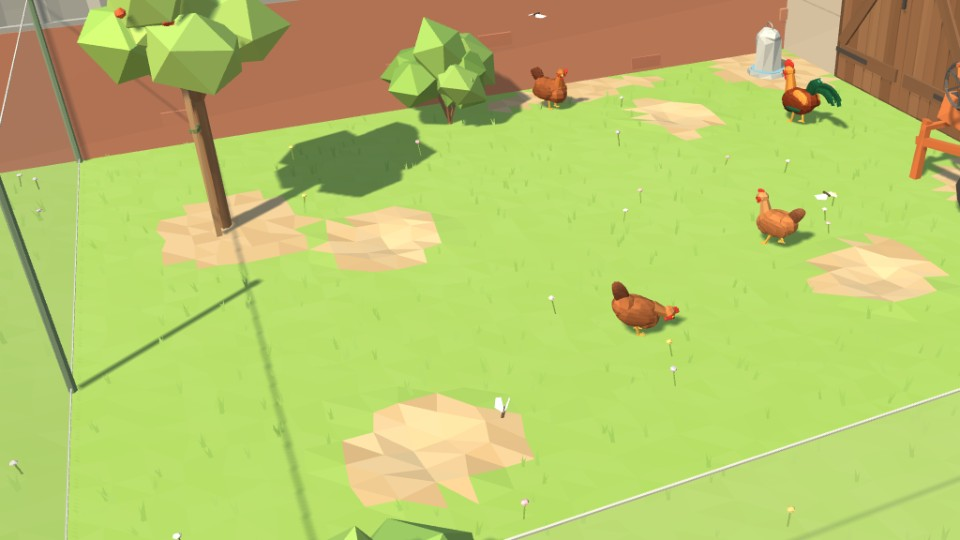
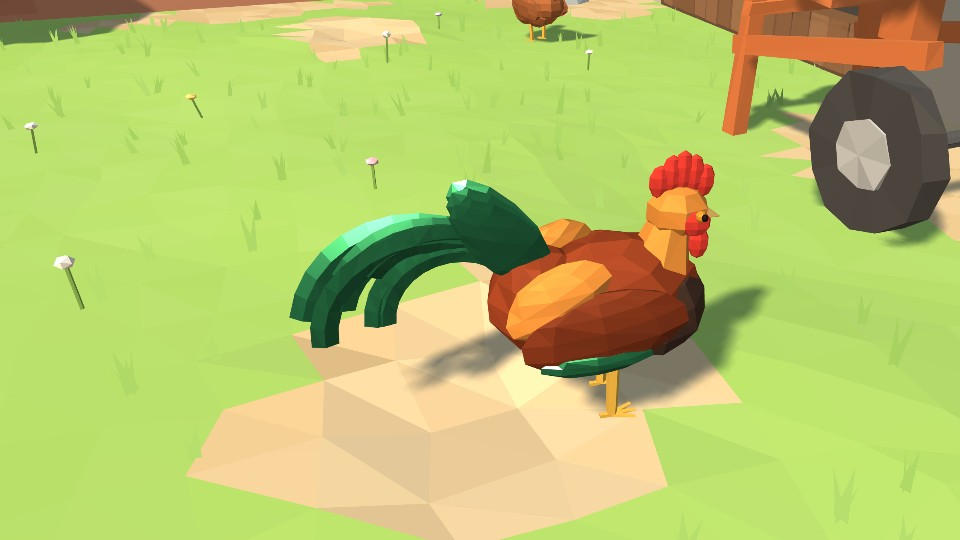
New PC-24 model; chicken run objects no longer stay faded; close-up thumbnails for cats and chickens, new flight thumbnail

diff --git a/playground/flight.html b/playground/flight.html
@@ -396,7 +396,7 @@ ring.add(ringGlow); ring.visible = false; scene.add(ring);
 //  aircraft
 // ===================================================================
 const AC = {
-  pc24: { name: "PC-24", kind: "plane", blurb: "The only business jet in the world that can land on unpaved runways.", cruise: 110, stall: 55, T: 4.2, pitch: .55, roll: 1.6, yaw: .3, fuelSec: 260, brake: 6, len: 17, gearH: 1.95, zMain: 1.5 },
+  pc24: { name: "PC-24", kind: "plane", blurb: "The only business jet in the world that can land on unpaved runways.", cruise: 110, stall: 55, T: 4.2, pitch: .55, roll: 1.6, yaw: .3, fuelSec: 260, brake: 6, len: 17, gearH: 1.95, zMain: 0 },
   pc12: { name: "PC-12", kind: "plane", blurb: "Single-engine turboprop. Steady, roomy and forgiving.", cruise: 80, stall: 36, T: 3.5, pitch: .6, roll: 1.5, yaw: .35, fuelSec: 360, brake: 5, len: 14.4, gearH: 1.83, zMain: -0.1 },
   pc21: { name: "PC-21", kind: "plane", blurb: "Turboprop trainer that flies like a fighter jet. Agile, rolls fast.", cruise: 105, stall: 42, T: 5.5, pitch: .95, roll: 3.4, yaw: .45, fuelSec: 210, brake: 6, len: 11.2, gearH: 1.5, zMain: 0.4 },
   pc9:  { name: "PC-9", kind: "plane", blurb: "Turboprop trainer, the PC-21's predecessor. Light, quick and honest.", cruise: 92, stall: 38, T: 4.6, pitch: .8, roll: 2.5, yaw: .4, fuelSec: 240, brake: 5.5, len: 10.2, gearH: 1.41, zMain: 0.25 },
@@ -431,10 +431,10 @@ function sideLine(g, mat, rAt, pts, h, inset = 0.03) {
 // paint a flat convex polygon onto a round fuselage, mirrored on both sides. poly: [z, t] points, t = angle round the
 // fuselage from the top (0) to the bottom (PI). rAt(z) = fuselage radius, yAt(z) = height of its axis (optional).
 // Triangles are subdivided and lifted a little so the paint sits just outside the faceted fuselage.
-function hullPatch(g, mat, rAt, polys, off = 0.02, yAt = null, N = 6) {
+function hullPatch(g, mat, rAt, polys, off = 0.02, yAt = null, N = 6, sides = [-1, 1]) {
   const pos = [], yc = (z) => (yAt ? yAt(z) : 0);
   if (!Array.isArray(polys[0][0])) polys = [polys];
-  for (const poly of polys) for (const s of [-1, 1]) {
+  for (const poly of polys) for (const s of sides) {
     const P = (q) => { const rr = rAt(q[0]), rx = (rr.length ? rr[0] : rr) + off, ry = (rr.length ? rr[1] : rr) + off; return new THREE.Vector3(s * rx * Math.sin(q[1]), yc(q[0]) + ry * Math.cos(q[1]), q[0]); };
     const tri = (p, q, r) => {
       const a = P(p); let b = P(q), c = P(r);
@@ -540,70 +540,85 @@ function buildModel(id) {
     const r = mk(g, new THREE.SphereGeometry(0.2, 6, 6), MB(0xff3030), -x, y, z), gr = mk(g, new THREE.SphereGeometry(0.2, 6, 6), MB(0x30ff60), x, y, z);
     ud.lights.push(r, gr);
   };
-  if (id === "pc24") {   // PC-24, blue prototype HB-VSA: blue, white swoosh with navy pinstripes, grey wings, white engines. T-tail.
-    // nose and cockpit from the side photo: [distance from the tip, top line, bottom line]. The crown runs in one smooth curve
-    // from the cabin roof over the windshield into a low, rounded radome; the lower line is almost straight. A smooth curve
-    // through these points is sampled finely, so there are no kinks between stations.
-    const key = [[0, -0.44, -0.44], [0.05, -0.36, -0.52], [0.15, -0.3, -0.57], [0.3, -0.24, -0.61], [0.71, -0.115, -0.66], [1.29, 0.095, -0.7],
-      [2.09, 0.37, -0.76], [2.71, 0.52, -0.8], [3.57, 0.68, -0.87], [4.43, 0.81, -0.93], [5.29, 0.93, -0.96], [6.0, 0.97, -0.97]];
-    const herm = (k) => (d) => {   // cubic Hermite through the key points (finite-difference tangents)
-      let i = 0; while (i < key.length - 2 && d > key[i + 1][0]) i++;
-      const p0 = key[i], p1 = key[i + 1], h = p1[0] - p0[0], t = (d - p0[0]) / h;
-      const m = (j) => (j <= 0 ? (key[1][k] - key[0][k]) / (key[1][0] - key[0][0]) : j >= key.length - 1 ? (key[j][k] - key[j - 1][k]) / (key[j][0] - key[j - 1][0])
-        : (key[j + 1][k] - key[j - 1][k]) / (key[j + 1][0] - key[j - 1][0]));
-      const t2 = t * t, t3 = t2 * t;
-      return (2 * t3 - 3 * t2 + 1) * p0[k] + (t3 - 2 * t2 + t) * h * m(i) + (-2 * t3 + 3 * t2) * p1[k] + (t3 - t2) * h * m(i + 1);
-    };
-    const top = herm(1), bot = herm(2), noseSt = [[-8.55, 0, -0.44]];
-    for (const d of [0.05, 0.15, 0.3, 0.5, 0.71, 1.0, 1.29, 1.7, 2.09, 2.4, 2.71, 3.1, 3.57, 4.0, 4.43, 4.85, 5.29, 5.65, 6.0]) {
-      const tp = top(d), bt = bot(d), ry = (tp - bt) / 2;   // a little wider than deep toward the tip: blunter in plan view
-      noseSt.push([-8.55 + d, ry * (1 + 0.3 * Math.max(0, 1 - d / 4.5)), (tp + bt) / 2, ry]);
-    }
-    // rear fuselage: the top stays nearly level, the underside sweeps up, gently and then more steeply (the double angle),
-    // closing just behind the fin; the APU tail cone sticks out aft on its own with the exhaust at its tip
-    const F = fuselage(g, MAT.pcBlue, [...noseSt, [2.0, 0.97, 0], [3.2, 0.9, 0.08], [4.4, 0.77, 0.2], [5.5, 0.62, 0.31], [6.3, 0.5, 0.38],
-      [6.9, 0.38, 0.46], [7.25, 0.28, 0.52], [7.32, 0, 0.55]]);
+  if (id === "pc24") {   // PC-24, blue prototype HB-VSA. Proportions traced from reference views; T-tail, cargo door on the left.
+    // Proportions traced from side, plan and rear views of a reference model, at 16.8 m length and 17.0 m span.
+    // Origin on the cabin axis, about where the main gear sits; nose toward -z, y up.
+    // Nose and cockpit: [z, top, bottom, half-width]. The belly line runs almost straight to a low, pointed tip;
+    // the top line falls in one long curve from the full cockpit crown down to the tip.
+    const nose = [[-8.65, -0.74, -0.74, 0], [-8.55, -0.62, -0.88, 0.12], [-8.4, -0.5, -0.92, 0.2], [-8.25, -0.425, -0.935, 0.26],
+      [-8.0, -0.295, -0.965, 0.41], [-7.75, -0.175, -0.98, 0.5], [-7.5, -0.075, -0.985, 0.59], [-7.25, 0.025, -0.985, 0.655],
+      [-7.0, 0.135, -0.98, 0.71], [-6.75, 0.275, -0.975, 0.775], [-6.5, 0.425, -0.965, 0.83], [-6.25, 0.555, -0.96, 0.85],
+      [-6.0, 0.685, -0.955, 0.87], [-5.75, 0.775, -0.945, 0.9], [-5.5, 0.835, -0.94, 0.915], [-5.25, 0.865, -0.935, 0.925],
+      [-5.0, 0.88, -0.94, 0.93], [-4.5, 0.895, -0.945, 0.93], [-3.5, 0.925, -0.965, 0.93]];
+    // cabin, then the rear fuselage: the top stays high while the belly sweeps up, narrowing in plan to a deep, slim tail
+    // that closes smoothly to a small point under the fin's trailing edge
+    const rear = [[-1.0, 0.985, -0.985, 0.93], [0.5, 1.02, -0.985, 0.93], [1.5, 1.05, -0.935, 0.93], [2.0, 1.04, -0.8, 0.87],
+      [2.5, 1.03, -0.63, 0.8], [3.0, 1.02, -0.47, 0.74], [3.5, 1.01, -0.32, 0.68], [4.0, 1.0, -0.21, 0.63], [4.6, 0.99, -0.06, 0.56],
+      [5.2, 0.97, 0.11, 0.37], [5.7, 0.96, 0.28, 0.3], [6.1, 0.95, 0.43, 0.23], [6.4, 0.93, 0.54, 0.17], [6.65, 0.9, 0.64, 0.11],
+      [6.85, 0.87, 0.73, 0.06], [6.97, 0.83, 0.8, 0.02], [7.0, 0.82, 0.82, 0]];
+    const st = [...nose, ...rear].map(([z, t, b, w]) => [z, w, (t + b) / 2, (t - b) / 2]);
+    const F = fuselage(g, MAT.pcBlue, st, 14);
     const R = F.rAt, Yc = F.yAt;
-    fuselage(g, MAT.white, [[7.1, 0.21, 0.58], [7.45, 0.16, 0.6], [7.75, 0.07, 0.62], [7.76, 0, 0.62]], 10);   // APU tail cone
-    mk(g, new THREE.CircleGeometry(0.06, 8), MAT.dark, 0, 0.62, 7.755);                                     // APU exhaust
-    // white swoosh: a thin sliver behind the nose wheel, sweeping back and up, covering the lower rear fuselage
-    hullPatch(g, MAT.white, R, [[[-6.3, 2.35], [-3.5, 2.0], [-3.5, 2.6], [-6.0, 2.55]], [[-3.5, 2.0], [0.5, 1.78], [0.5, 2.75], [-3.5, 2.6]],
-      [[0.5, 1.78], [2.6, 1.45], [2.6, Math.PI], [0.5, 2.75]], [[2.6, 1.45], [4.6, 0.85], [4.6, Math.PI], [2.6, Math.PI]],
-      [[4.6, 0.85], [6.6, 0.45], [6.6, Math.PI], [4.6, Math.PI]], [[6.6, 0.45], [7.28, 0.4], [7.28, Math.PI], [6.6, Math.PI]]], 0.02, Yc);
-    hullStrip(g, MAT.navy, R, [[-6.3, 2.33], [-3.5, 1.98], [0.5, 1.76], [2.6, 1.43], [4.6, 0.83], [6.6, 0.43], [7.25, 0.4]], 0.035, 0.03, Yc);
-    hullStrip(g, MAT.navy, R, [[-4.5, 2.42], [-1, 2.3], [1.5, 2.1], [3.2, 1.75], [4.8, 1.3], [6.5, 1.05]], 0.025, 0.03, Yc);
-    // wrap-around windshield (the panes meet over the crown, raked front edge), cockpit side windows a little higher than
-    // the cabin windows, then three cabin windows, the door window and three more
-    hullPatch(g, MAT.glass, R, [[[-6.35, 0], [-5.1, 0], [-4.95, 1.0], [-5.95, 1.08]], [[-4.9, 0.5], [-3.9, 0.52], [-3.95, 1.04], [-4.88, 1.02]],
-      ...[-2.65, -1.9, -1.15, 0.45, 1.2, 1.95].map((z) => [[z - 0.13, 1.27], [z + 0.13, 1.27], [z + 0.13, 1.62], [z - 0.13, 1.62]]),
-      [[-0.54, 1.22], [-0.16, 1.22], [-0.16, 1.68], [-0.54, 1.68]]], 0.03, Yc, 3);
-    // wing-to-body fairing: a long, shallow, wide bulge under the centre fuselage that the wing roots run into
-    fuselage(g, MAT.pcBlue, [[-2.8, 0.7, -0.45, 0.45], [-1.8, 1.0, -0.52, 0.65], [-0.8, 1.18, -0.55, 0.74], [1.4, 1.18, -0.55, 0.74],
-      [2.6, 1.02, -0.5, 0.62], [3.6, 0.75, -0.42, 0.42], [4.3, 0.4, -0.35, 0.2]], 14);
-    // wing: swept outer panel, a more swept glove at the root, almost straight trailing edge, slim tips, no winglets
-    const wing = [[0, -1.6], [1.0, -1.55], [2.3, -0.5], [8.5, 1.55], [8.5, 2.4], [1.0, 1.45], [0, 1.45]];
+    const tAt = (z, y) => { const rr = R(z), ry = rr.length ? rr[1] : rr; return Math.acos(clamp((y - Yc(z)) / ry, -1, 1)); };   // side height -> paint angle
+
+    // white swoosh: a thin sliver behind the nose wheel, sweeping back and up under the windows, covering the lower rear fuselage
+    hullPatch(g, MAT.white, R, [[[-6.4, 2.3], [-3.5, 2.0], [-3.5, 2.6], [-6.1, 2.5]], [[-3.5, 2.0], [0.5, 1.8], [0.5, 2.75], [-3.5, 2.6]],
+      [[0.5, 1.8], [2.6, 1.45], [2.6, Math.PI], [0.5, 2.75]], [[2.6, 1.45], [4.6, 0.9], [4.6, Math.PI], [2.6, Math.PI]],
+      [[4.6, 0.9], [6.95, 0.6], [6.95, Math.PI], [4.6, Math.PI]]], 0.02, Yc);
+    hullStrip(g, MAT.navy, R, [[-6.4, 2.28], [-3.5, 1.98], [0.5, 1.78], [2.6, 1.43], [4.6, 0.88], [6.3, 0.62]], 0.035, 0.03, Yc);
+    hullStrip(g, MAT.navy, R, [[-4.6, 2.4], [-1, 2.3], [1.5, 2.12], [3.2, 1.78], [4.8, 1.35], [6.2, 1.1]], 0.025, 0.03, Yc);
+
+    // cockpit glass, one dark wrap-around band with thin body-colour frames: two big windshield panes split by a thin centre
+    // post, a strip of painted roof above them, the lower edge low on the nose slope; behind them a front and a rear side
+    // window split by slim posts, the top edge following the crown. Then three cabin windows, the door window and two more,
+    // on a window line just above the cabin axis.
+    const win = (z, w, y0, y1) => [[z - w, tAt(z - w, y1)], [z + w, tAt(z + w, y1)], [z + w, tAt(z + w, y0)], [z - w, tAt(z - w, y0)]];
+    const side = (pts) => pts.map(([z, y]) => [z, tAt(z, y)]);   // outline given as side-view heights
+    hullPatch(g, MAT.glass, R, [
+      [[-6.85, 0.035], [-6.27, 0.035], [-6.05, tAt(-6.05, 0.595)], [-6.41, tAt(-6.41, 0.14)], [-6.87, tAt(-6.87, 0.13)]],   // windshield pane
+      side([[-6.01, 0.598], [-5.6, 0.575], [-5.84, 0.17], [-6.37, 0.144]]),                                               // front side window
+      side([[-5.56, 0.572], [-5.19, 0.54], [-5.19, 0.2], [-5.8, 0.173]]),                                                 // rear side window
+      ...[-3.32, -2.58, -1.85, -1.01, -0.35, 0.21].map((z) => win(z, 0.15, 0.2, 0.6))], 0.03, Yc, 3);
+
+    // the large cargo door on the left side, behind the last cabin window and ahead of the engine: a thin navy seam and handle
+    const seam = (z0, z1, y0, y1) => side([[z0, y1], [z1, y1], [z1, y0], [z0, y0]]);
+    hullPatch(g, MAT.navy, R, [seam(0.58, 0.615, -0.32, 0.78), seam(1.865, 1.9, -0.32, 0.78), seam(0.58, 1.9, 0.745, 0.78), seam(0.58, 1.9, -0.32, -0.285),
+      seam(1.2, 1.32, -0.24, -0.04)], 0.036, Yc, 2, [-1]);
+    // wing-to-body fairing: long, shallow and wide under the centre fuselage, the wing roots run into it
+    fuselage(g, MAT.pcBlue, [[-3.6, 0.7, -0.6, 0.45], [-3.0, 0.95, -0.6, 0.545], [-2.5, 1.05, -0.6, 0.625], [-2.0, 1.12, -0.6, 0.725],
+      [-1.5, 1.15, -0.6, 0.775], [-1.0, 1.15, -0.6, 0.755], [0.0, 1.14, -0.6, 0.635], [0.5, 1.12, -0.6, 0.565], [1.0, 1.08, -0.6, 0.505],
+      [1.6, 0.95, -0.55, 0.35], [2.1, 0.6, -0.5, 0.2], [2.5, 0.3, -0.45, 0.1]], 14);
+
+    // wing: low on the fuselage, a glove at the root, a cranked leading edge (about 18 degrees inboard, 14 outboard),
+    // a straight trailing edge (the body fairing carries the root aft), slim tips; about 4 degrees of dihedral
+    const wing = [[0, -2.2], [1.0, -2.1], [1.85, -1.82], [4.3, -1.02], [8.45, 0.02], [8.45, 0.85], [1.2, 0.72], [0, 0.75]];
     for (const s of [-1, 1]) {
-      wingHalf(g, MAT.grey, wing, s, -0.62, 0.05, 0.22);
-      // engines: long, slightly barrel-shaped nacelles high on the rear fuselage, a little toed out, round intake lip, short exhaust cone
-      const nac = new THREE.Group(); nac.position.set(s * 1.12, 0.72, 0); nac.rotation.y = -s * 0.04; g.add(nac);
-      fuselage(nac, MAT.white, [[3.4, 0.37, 0], [3.52, 0.43, 0], [3.9, 0.46, 0], [4.9, 0.46, 0], [5.7, 0.39, 0], [6.0, 0.32, 0], [6.01, 0, 0]], 12);
-      fuselage(nac, MAT.metal, [[5.9, 0.2, 0], [6.3, 0, 0]], 8);
-      mk(nac, new THREE.TorusGeometry(0.4, 0.045, 6, 14), MAT.silver, 0, 0, 3.4);
-      mk(nac, new THREE.CircleGeometry(0.36, 12), MAT.glass, 0, 0, 3.46, 0, Math.PI, 0);
-      plate(g, MAT.white, mirrorX([[0.3, 3.9], [0.85, 4.25], [0.85, 5.4], [0.3, 5.95]], s), 0.2).position.y = 0.68;   // pylon fairing
+      wingHalf(g, MAT.grey, wing, s, -0.98, 0.072, 0.16);
+      // engines: long, slightly barrel-shaped nacelles high on the rear fuselage on short pylons, a little toed out
+      const nac = new THREE.Group(); nac.position.set(s * 1.45, 0.61, 0); nac.rotation.y = -s * 0.03; g.add(nac);
+      fuselage(nac, MAT.white, [[2.02, 0.41, 0], [2.12, 0.46, 0], [2.5, 0.49, 0], [3.7, 0.49, 0], [4.35, 0.44, 0], [4.6, 0.37, 0], [4.61, 0, 0]], 12);
+      fuselage(nac, MAT.metal, [[4.5, 0.22, 0], [4.78, 0, 0]], 8);
+      mk(nac, new THREE.TorusGeometry(0.43, 0.045, 6, 14), MAT.silver, 0, 0, 2.02);
+      mk(nac, new THREE.CircleGeometry(0.39, 12), MAT.glass, 0, 0, 2.08, 0, Math.PI, 0);
+      plate(g, MAT.white, mirrorX([[0.4, 2.5], [1.05, 2.7], [1.05, 4.1], [0.4, 4.4]], s), 0.22).position.y = 0.6;   // pylon
     }
-    // fin: about 45 degrees of leading-edge sweep, a short dorsal fillet, the rudder trailing edge leaning back and
-    // coming down onto the top of the APU cone
-    const fin = plate(g, MAT.pcBlue, [[3.6, 0.92], [4.4, 1.0], [6.6, 3.15], [7.85, 3.15], [7.25, 0.78], [5.5, 0.6]], 0.2, "zy");
-    finDecal(fin, MAT.white, [[4.5, 1.05], [7.23, 1.05], [7.36, 1.5], [4.95, 1.5]]);
-    finDecal(fin, MAT.navy, [[4.95, 1.5], [7.36, 1.5], [7.38, 1.6], [5.05, 1.6]], 0.008);
-    rudderLine(fin, MAT.blueDark, [6.95, 0.9], [7.5, 3.1]);
-    // T-tail: swept tailplane sitting on an acorn fairing at the fin tip
-    fuselage(g, MAT.pcBlue, [[6.35, 0, 3.18], [6.6, 0.14, 3.18], [7.2, 0.2, 3.18], [8.0, 0.17, 3.18], [8.45, 0.06, 3.18], [8.5, 0, 3.18]], 10);
-    plate(g, MAT.grey, [[0, 6.6], [3.4, 8.0], [3.4, 8.45], [0, 8.0], [-3.4, 8.45], [-3.4, 8.0]], 0.12).position.y = 3.18;
-    plate(g, MAT.white, [[5.5, -0.2], [7.0, 0.15], [6.85, -0.12], [6.2, -0.38]], 0.1, "zy");   // ventral fin
-    nav(8.5, -0.2, 2.0);
-    gearLeg(gear, 1.4, -0.7, 1.0, 0.9, 0.35); gearLeg(gear, -1.4, -0.7, 1.0, 0.9, 0.35); gearLeg(gear, 0, -0.75, -6.6, 0.9, 0.3);
+    // APU: a long dorsal fairing on top of the rear fuselage between the engines, rising into the fin's leading edge
+    fuselage(g, MAT.pcBlue, [[1.8, 0, 1.0, 0], [1.95, 0.25, 1.02, 0.22], [2.5, 0.3, 1.08, 0.32], [3.0, 0.3, 1.12, 0.35], [3.5, 0.28, 1.17, 0.37],
+      [4.0, 0.25, 1.2, 0.4], [4.6, 0.2, 1.2, 0.38], [5.2, 0.12, 1.1, 0.28], [5.6, 0, 1.0, 0]], 10);
+    // fin: 45 degrees of leading-edge sweep, a long tip chord carrying the T-tail, trailing edge leaning back over the tail cut
+    const fin = plate(g, MAT.pcBlue, [[3.8, 1.0], [3.8, 1.47], [5.3, 3.15], [7.36, 3.15], [6.3, 0.95], [5.0, 0.8]], 0.2, "zy");
+    const fle = (y) => 3.8 + (y - 1.47) * 1.5 / 1.68, fte = (y) => 6.3 + (y - 0.95) * 1.06 / 2.2;
+    finDecal(fin, MAT.white, [[fle(1.7), 1.7], [fte(1.7), 1.7], [fte(2.0), 2.0], [fle(2.0), 2.0]]);
+    finDecal(fin, MAT.navy, [[fle(2.0), 2.0], [fte(2.0), 2.0], [fte(2.1), 2.1], [fle(2.1), 2.1]], 0.008);
+    rudderLine(fin, MAT.blueDark, [6.0, 1.15], [6.92, 3.1]);
+    // T-tail: the swept tailplane (6.8 m span) on an acorn fairing at the fin tip
+    fuselage(g, MAT.pcBlue, [[5.45, 0, 3.25], [5.7, 0.12, 3.25], [6.2, 0.17, 3.25], [7.3, 0.16, 3.25], [7.85, 0.08, 3.25], [8.0, 0, 3.25]], 10);
+    plate(g, MAT.grey, [[0, 5.65], [3.4, 7.15], [3.4, 8.1], [0, 7.35], [-3.4, 8.1], [-3.4, 7.15]], 0.12).position.y = 3.08;
+    // ventral strake: a long, low keel fairing that grows out of the belly, runs aft nearly level and sweeps up into the tail
+    fuselage(g, MAT.white, [[3.7, 0, -0.22, 0], [4.0, 0.12, -0.16, 0.07], [4.5, 0.16, -0.083, 0.118], [5.0, 0.18, 0.008, 0.168], [5.5, 0.18, 0.103, 0.228],
+      [5.95, 0.16, 0.205, 0.285], [6.2, 0.11, 0.45, 0.14], [6.4, 0.05, 0.6, 0.06], [6.45, 0, 0.62, 0]], 10);
+    nav(8.45, -0.37, 0.45);
+    gearLeg(gear, 1.54, -0.95, 0.0, 0.65, 0.35); gearLeg(gear, -1.54, -0.95, 0.0, 0.65, 0.35); gearLeg(gear, 0, -0.95, -6.94, 0.7, 0.3);
   } else if (id === "pc12") {   // PC-12 NGX: angular panels in dark, mid and light blue, light grey tail, Swiss flag on the fin. T-tail.
     const F = fuselage(g, MAT.blueMid, [[-6.05, 0.3, 0], [-5.8, 0.55, 0], [-5.0, 0.68, 0.02], [-4.0, 0.78, 0.05], [-3.2, 0.86, 0.08], [-2.0, 0.88, 0.08],
       [1.8, 0.88, 0.08], [3.0, 0.8, 0.14], [4.4, 0.62, 0.26], [5.8, 0.42, 0.4], [7.0, 0.25, 0.52], [7.6, 0, 0.56]]);

diff --git a/playground/chickens.html b/playground/chickens.html
@@ -154,13 +154,16 @@ class Bake {
       g.computeBoundingBox(); const sz = g.boundingBox.getSize(_e), sx = _a.setFromMatrixColumn(m, 0).length(), sy = _b.setFromMatrixColumn(m, 1).length(), sz2 = _c.setFromMatrixColumn(m, 2).length();
       amp = Math.min(0.02, Math.min(sz.x * sx, sz.y * sy, sz.z * sz2) * 0.12);
     }
+    const bx = this.boxes ? [Infinity, -Infinity, Infinity, -Infinity, Infinity, -Infinity] : null;
     for (let i = 0; i < p.count; i += 3) {
       _a.fromBufferAttribute(p, i).applyMatrix4(m); _b.fromBufferAttribute(p, i + 1).applyMatrix4(m); _c.fromBufferAttribute(p, i + 2).applyMatrix4(m);
       if (amp > 0.0005) { wobble(_a, amp); wobble(_b, amp); wobble(_c, amp); }
+      if (bx) for (const v of [_a, _b, _c]) { bx[0] = Math.min(bx[0], v.x); bx[1] = Math.max(bx[1], v.x); bx[2] = Math.min(bx[2], v.y); bx[3] = Math.max(bx[3], v.y); bx[4] = Math.min(bx[4], v.z); bx[5] = Math.max(bx[5], v.z); }
       _n.subVectors(_b, _a).cross(_e.subVectors(_c, _a)).normalize();
       const t = 1 + (Math.random() - 0.5) * j;
       for (const v of [_a, _b, _c]) { this.p.push(v.x, v.y, v.z); this.n.push(_n.x, _n.y, _n.z); this.c.push(col.r * t, col.g * t, col.b * t); }
     }
+    if (bx && bx[0] < Infinity) this.boxes.push(bx);
     if (g !== geo) g.dispose();
     if (!keep) geo.dispose();
     return this;
@@ -499,7 +502,7 @@ const MAIN_W = W;
 // see-through instead of pushing the camera about
 const FADES = [];
 let FCUR = null;
-function newFade(name) { const F = { name, solid: new Bake(), extra: [], c: 0, lastC: -1 }; FADES.push(F); return F; }
+function newFade(name) { const F = { name, solid: new Bake(), extra: [], c: 0, lastC: -1, want: 0 }; F.solid.boxes = []; FADES.push(F); return F; }
 function intoF(F) { FCUR = F; W = F ? F.solid : MAIN_W; }
 intoF(newFade("garage"));
 // the long garage: brick base with proud bricks, corrugated sheet above, corrugated gable roof
@@ -1081,23 +1084,34 @@ for (const F of FADES) {
   F.mats = []; F.objs = [];
   if (F.solid.p.length) { const m = F.solid.build(true, true); m.material = FLAT.clone(); F.mats.push(m.material); F.objs.push(m); }
   for (const o of F.extra) o.traverse((q) => { if (q.isMesh) { q.material = q.material.clone(); F.mats.push(q.material); F.objs.push(q); } });
-  const b = new THREE.Box3(); for (const o of F.objs) { o.updateMatrixWorld(true); b.expandByObject(o); }
-  F.box = [b.min.x - 0.05, b.max.x + 0.05, b.min.y - 0.05, b.max.y + 0.05, b.min.z - 0.05, b.max.z + 0.05];
+  let parts = F.solid.boxes.filter((q) => Math.max(q[1] - q[0], q[3] - q[2], q[5] - q[4]) >= 0.12);
+  if (!parts.length) parts = F.solid.boxes.slice();
+  for (const o of F.extra) o.traverse((q) => { if (q.isMesh) { q.updateMatrixWorld(true); const b = new THREE.Box3().setFromObject(q); parts.push([b.min.x, b.max.x, b.min.y, b.max.y, b.min.z, b.max.z]); } });
+  const within = (a, b) => a !== b && a[0] >= b[0] && a[1] <= b[1] && a[2] >= b[2] && a[3] <= b[3] && a[4] >= b[4] && a[5] <= b[5];
+  F.parts = parts.filter((a) => !parts.some((b) => within(a, b))).map((q) => [q[0] - 0.03, q[1] + 0.03, q[2] - 0.03, q[3] + 0.03, q[4] - 0.03, q[5] + 0.03]);
+  F.box = F.parts.reduce((u, q) => [Math.min(u[0], q[0]), Math.max(u[1], q[1]), Math.min(u[2], q[2]), Math.max(u[3], q[3]), Math.min(u[4], q[4]), Math.max(u[5], q[5])], [Infinity, -Infinity, Infinity, -Infinity, Infinity, -Infinity]);
   for (const mm of F.mats) mm.userData.op = mm.opacity;
   fadeObjs.push(...F.objs);
 }
 // each frame: anything of these between the camera and the look-at point (or around the camera) fades to about 20 %
 // over a fifth of a second, and comes back when it's out of the way
 function updateFade(dt, pos, look) {
+  const inB = (p, q, m) => p.x > q[0] - m && p.x < q[1] + m && p.y > q[2] - m && p.y < q[3] + m && p.z > q[4] - m && p.z < q[5] + m;
+  const close = pos.distanceTo(look) < 2.5, M = 0.25;
   for (const F of FADES) {
-    const q = F.box, m = 0.35;
-    const near = pos.x > q[0] - m && pos.x < q[1] + m && pos.y > q[2] - m && pos.y < q[3] + m && pos.z > q[4] - m && pos.z < q[5] + m;
-    const want = near || segHits(pos, look, [q]) ? 1 : 0;
+    let want = 0;
+    if (inB(pos, F.box, M) || segHits(pos, look, [F.box])) {
+      for (const q of F.parts) {
+        if (inB(pos, q, M)) { want = 1; break; }
+        if ((close || !inB(look, q, 0)) && segHits(pos, look, [q])) { want = 1; break; }
+      }
+    }
+    F.want = want;
     F.c = damp(F.c, want, 15, dt); if (Math.abs(F.c - want) < 0.004) F.c = want;
     if (F.c === F.lastC) continue;
     F.lastC = F.c;
-    const op = 1 - 0.8 * F.c;
-    for (const mm of F.mats) { mm.opacity = mm.userData.op * op; mm.transparent = F.c > 0.004 || mm.userData.op < 1; mm.depthWrite = F.c < 0.5; }
+    const op = 1 - 0.8 * F.c, faded = F.c > 0;
+    for (const mm of F.mats) { mm.opacity = faded ? mm.userData.op * op : mm.userData.op; mm.transparent = faded || mm.userData.op < 1; mm.depthWrite = F.c < 0.5; }
   }
 }
 structures.add(builtStatic);
